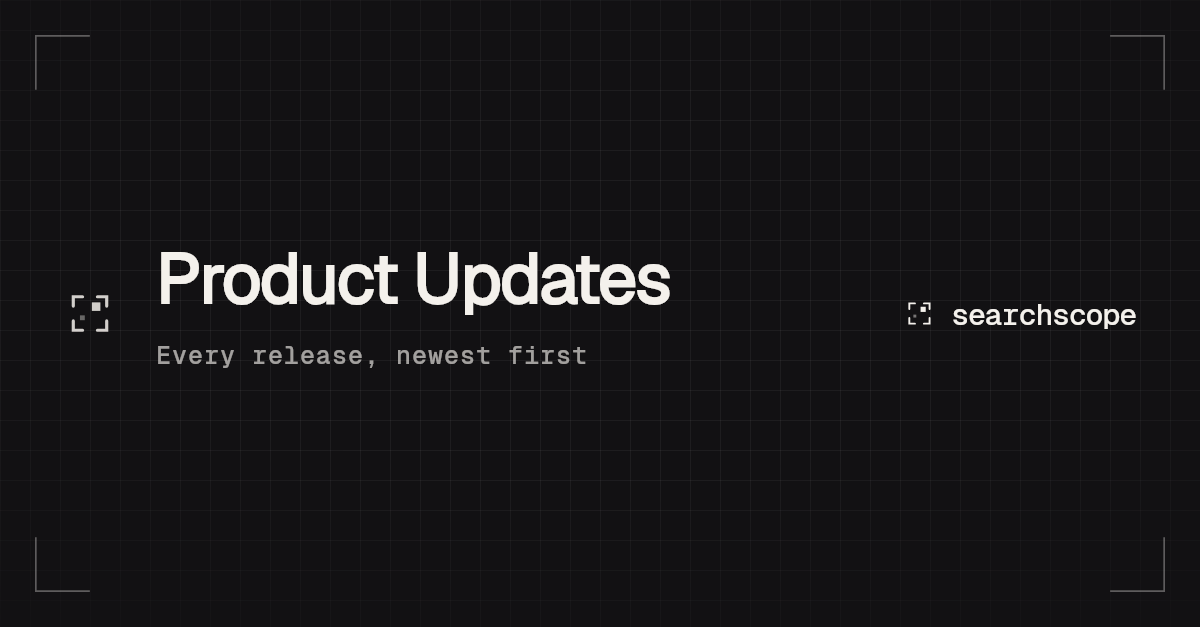
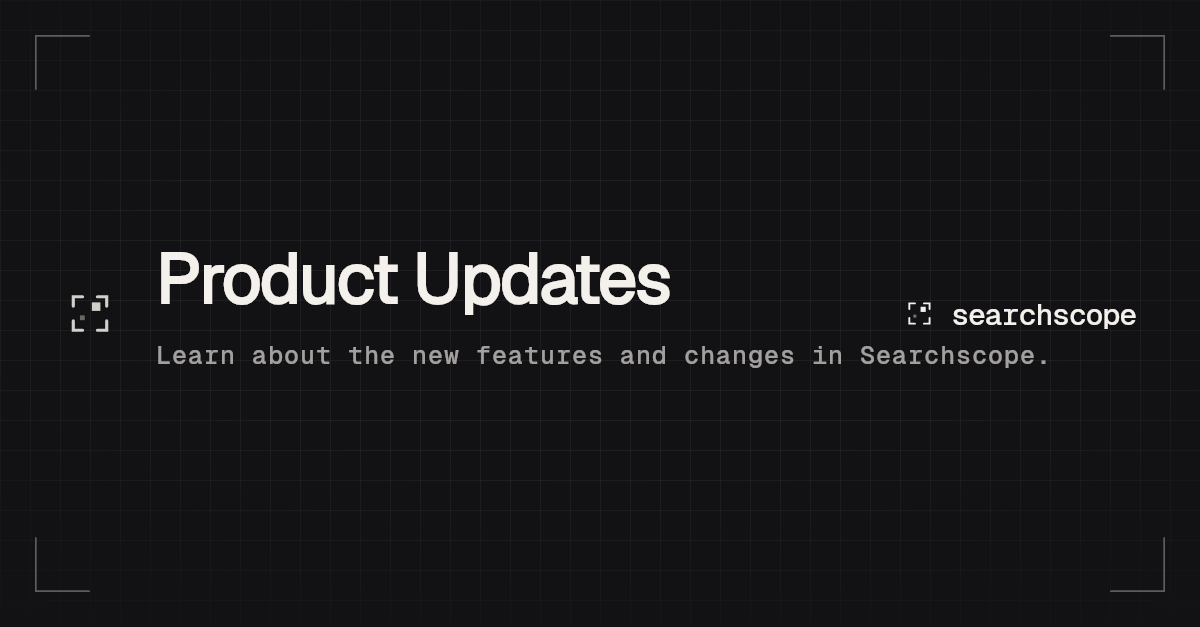
Product Updates: H1 back to the category name, subhead on the link card
H1 reverts to Product Updates. The breadcrumb above it already says
Searchscope, and the page title carries the brand, so the longer version was
saying it three times on one screen.

The link preview card gains the same subhead the page shows, so a share of
the archive says what the page is for rather than counting what happens to be
on it today. The sentence is now in two places and they match; if one changes,
change both.

Changed region(s): [[0.1233, 0.5455, 0.8633, 0.6061]]

diff --git a/holding/blog/category/product-updates/index.html b/holding/blog/category/product-updates/index.html
@@ -1009,7 +1009,7 @@ height="0" width="0" style="display:none;visibility:hidden"></iframe></noscript>
       </nav>
       <div class="strip__head">
         <span class="eyebrow reveal">Product</span>
-        <h1 class="strip__title reveal" style="--reveal-delay:60ms">Searchscope Product Updates</h1>
+        <h1 class="strip__title reveal" style="--reveal-delay:60ms">Product Updates</h1>
         <p class="strip__sub reveal" style="--reveal-delay:130ms">Learn about the new features and changes in Searchscope.</p>
       </div>
       <ul class="postgrid">
